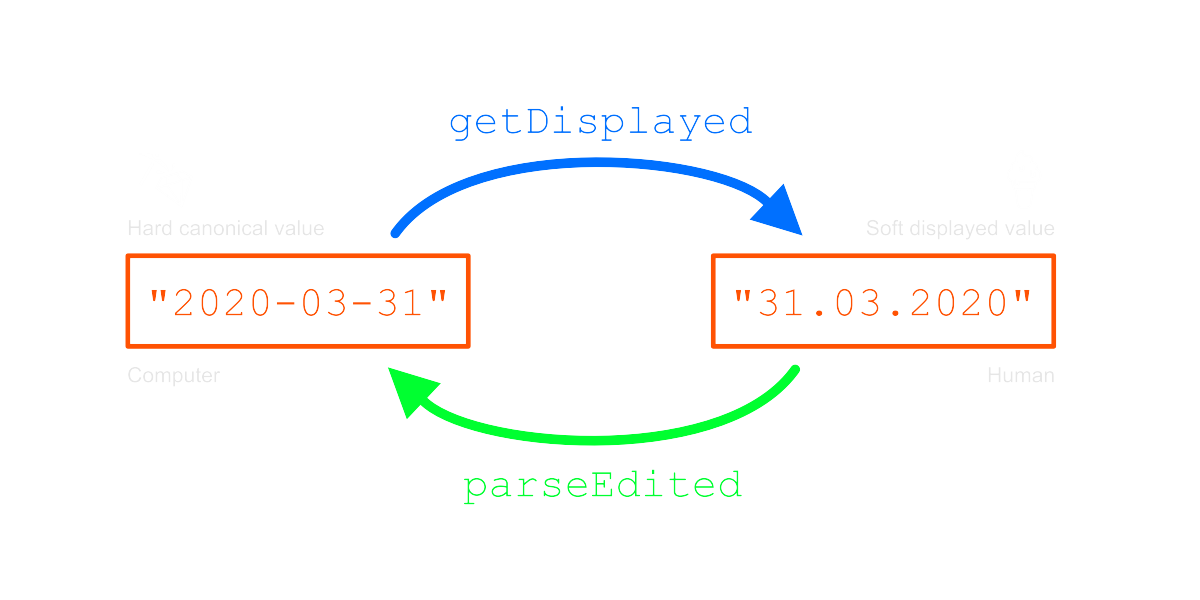
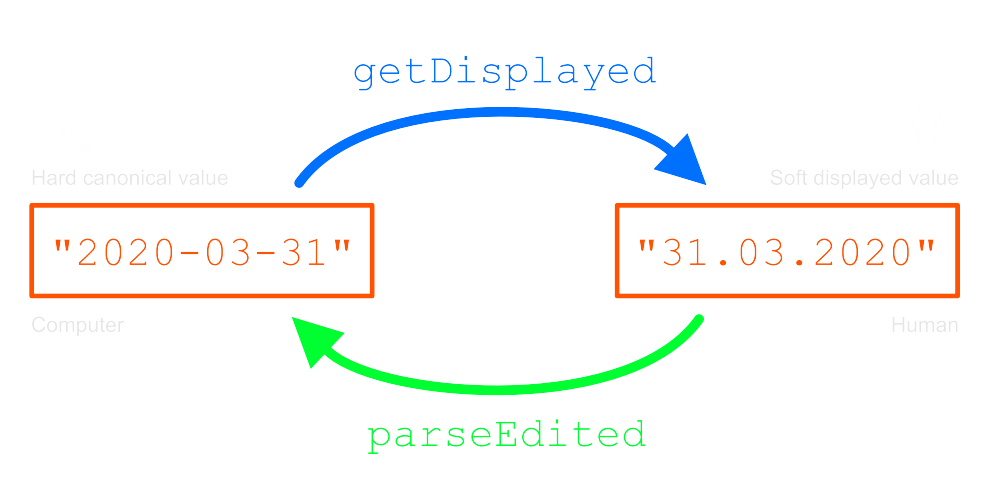
Change strategy for size of images.

diff --git a/content/xcraft/converters/overview.md b/content/xcraft/converters/overview.md
@@ -6,11 +6,11 @@ tags: ['devel', 'converters']
 draft: true
 ---
 
-![getDisplayed vs. parseEdited](/img/converters.overview.png?classes=blackprint)
+![getDisplayed vs. parseEdited](/img/converters.overview.png?width=800px)
 
 ## Canonical
 
-![hard canonical](/img/converters.hard.png?classes=blackprint)
+![hard canonical](/img/converters.hard.png?width=200px)
 
 **Canonical** values are used by the computer. The format of canonical values is
 fixed and rigid. These are the values that are persisted in [RethinkDB][1].
@@ -65,7 +65,7 @@ possible to something plausible.
 
 ## Displayed
 
-![soft displayed](/img/converters.soft.png?classes=blackprint)
+![soft displayed](/img/converters.soft.png?width=200px)
 
 **Displayed** values are for human users. A displayed value has several possible
 representations, more or less long, to adapt to different situations in the UI.
